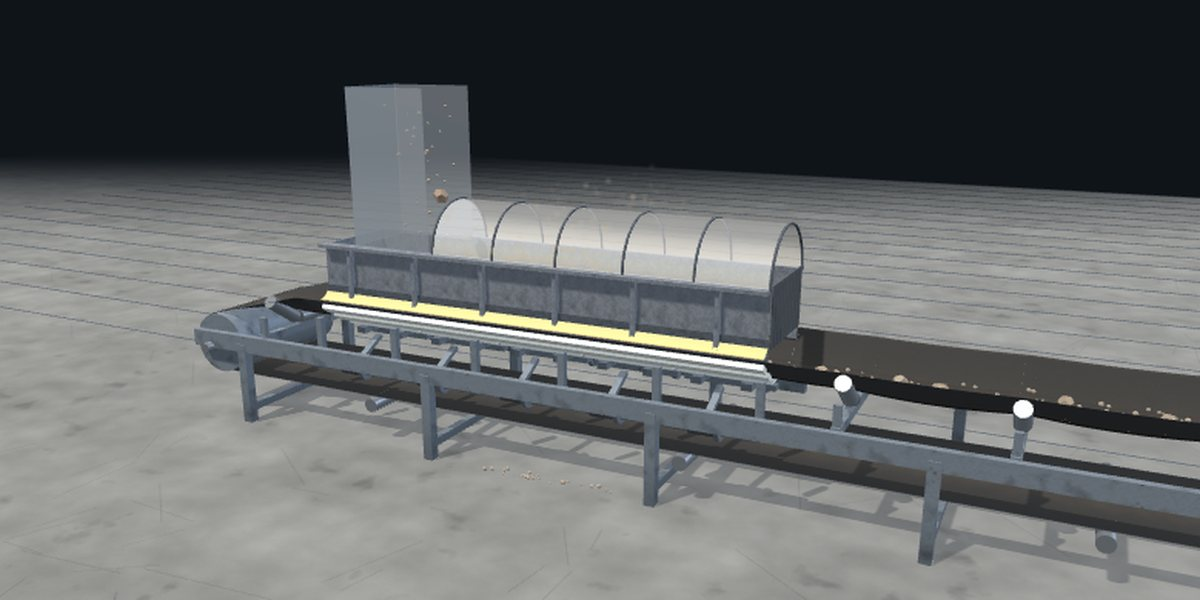
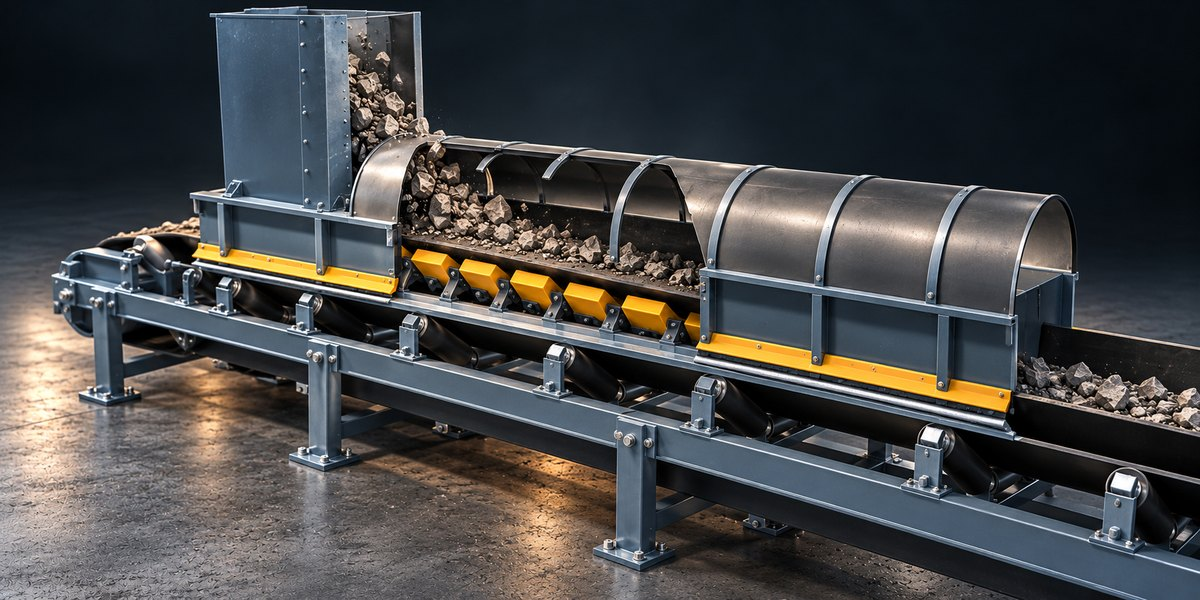
Зона загрузки: новая картинка для карточки на главной и превью ссылки
Claude-Session: https://claude.ai/code/session_017Un8pVuKuSP3CbEFkryQMJ

diff --git a/index.html b/index.html
@@ -347,7 +347,7 @@ footer .in{display:flex;flex-wrap:wrap;gap:8px 24px;justify-content:space-betwee
           </div>
         </article>
         <article class="mcard">
-          <button class="pic" data-open="zona" aria-label="Открыть 3D-модель «Зона загрузки»"><img src="img/3d-zona.jpg" alt="Кадр из 3D-модели зоны загрузки: течка, демпферный стол и уплотнения" loading="lazy"><span>3D-модель</span><b class="play"><svg viewBox="0 0 24 24" aria-hidden="true"><path d="M12 3a9 9 0 1 0 8.5 6" fill="none" stroke="currentColor" stroke-width="2" stroke-linecap="round"/><path d="M21 3v6h-6" fill="none" stroke="currentColor" stroke-width="2" stroke-linecap="round" stroke-linejoin="round"/><path d="M12 7.5l4 2.3v4.4L12 16.5l-4-2.3V9.8z" fill="none" stroke="currentColor" stroke-width="1.6" stroke-linejoin="round"/><path d="M8 9.8l4 2.3 4-2.3M12 12.1v4.4" fill="none" stroke="currentColor" stroke-width="1.6" stroke-linejoin="round"/></svg>Покрутить в 3D</b></button>
+          <button class="pic" data-open="zona" aria-label="Открыть 3D-модель «Зона загрузки»"><img src="img/3d-zona.jpg" alt="Зона загрузки конвейера: течка с полиуретановыми уплотнениями, демпферный стол и пылезащитное укрытие" loading="lazy"><span>3D-модель</span><b class="play"><svg viewBox="0 0 24 24" aria-hidden="true"><path d="M12 3a9 9 0 1 0 8.5 6" fill="none" stroke="currentColor" stroke-width="2" stroke-linecap="round"/><path d="M21 3v6h-6" fill="none" stroke="currentColor" stroke-width="2" stroke-linecap="round" stroke-linejoin="round"/><path d="M12 7.5l4 2.3v4.4L12 16.5l-4-2.3V9.8z" fill="none" stroke="currentColor" stroke-width="1.6" stroke-linejoin="round"/><path d="M8 9.8l4 2.3 4-2.3M12 12.1v4.4" fill="none" stroke="currentColor" stroke-width="1.6" stroke-linejoin="round"/></svg>Покрутить в 3D</b></button>
           <div class="txt">
             <span class="ref">Разделы 02–03</span>
             <h3>Зона загрузки</h3>

diff --git a/zona.html b/zona.html
@@ -7,7 +7,7 @@
 <meta property="og:title" content="Зона загрузки конвейера в 3D — демпферный стол и уплотнения | Legacy Kazakhstan">
 <meta property="og:description" content="Интерактивная 3D-модель зоны загрузки ленточного конвейера: удар куска, прогиб ленты, просыпь и пыль. Демпферный стол с торсионными опорами, уплотнения течки K-Snap-Loc и пылезащита.">
 <meta property="og:url" content="https://legacyrk.kz/zona.html">
-<meta property="og:image" content="https://legacyrk.kz/img/og.jpg">
+<meta property="og:image" content="https://legacyrk.kz/img/og-zona.jpg">
 <meta property="og:image:width" content="1200">
 <meta property="og:image:height" content="630">
 <meta name="twitter:card" content="summary_large_image">
